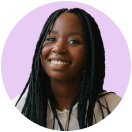
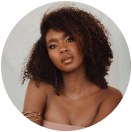
Working on Mentee profile

diff --git a/app/(dashboard)/(routes)/(profile)/mentee-profile/page.tsx b/app/(dashboard)/(routes)/(profile)/mentee-profile/page.tsx
@@ -1,19 +1,108 @@
 "use client";
 
+import OverviewCard from "@/components/cards/mentee-profile-cards/OverviewCard";
 import Button from "@/components/ui/Button";
-import { DashboardMenteeNavImg } from "@/public";
-import React from "react";
+import { DashboardCoverBg, MenteeDashboardProfileImg } from "@/public";
+import { NaijaFlagIcon } from "@/public/SVGs";
+import Image from "next/image";
+import Link from "next/link";
+import { useRouter } from "next/navigation";
+import React, { useState } from "react";
+
+type MenuProfileProps = {
+	id: number;
+	title: string;
+	tab: string;
+};
+const menteeMenus: MenuProfileProps[] = [
+	{
+		id: 1,
+		title: "overview",
+		tab: "overview",
+	},
+	{
+		id: 2,
+		title: "My Mentors",
+		tab: "my-mentors",
+	},
+	{
+		id: 3,
+		title: "commendations",
+		tab: "commendations",
+	},
+];
 
 export default function MenteeProfilePage() {
+	const [activeTab, setActiveTab] = useState("");
+	const router = useRouter();
+
 	return (
-		<div>
-			<Button
-				className="p-3"
-				variant="secondary"
-				type="button"
-				icon={DashboardMenteeNavImg}
-				title="Dashboard"
-			/>
-		</div>
+		<section>
+			<div className="flex">
+				<Image src={DashboardCoverBg} alt="cover" width={1000} height={500} />
+			</div>
+			<div className="flex flex-col px-6 lg:px-8">
+				<div className="flex">
+					<div>
+						<Image
+							src={MenteeDashboardProfileImg}
+							alt="cover"
+							width={130}
+							height={130}
+						/>
+					</div>
+					<div className="flex flex-col">
+						<p className="flex">
+							<span>Henrietta Okankwo</span>
+							<NaijaFlagIcon />
+						</p>
+						<p>
+							Product designer <span>at</span> Federal University of Technology,
+							Owerri
+						</p>
+					</div>
+					<div>
+						<Button
+							className="px-4 py-2"
+							title="Edit Profile"
+							variant="secondary"
+						/>
+					</div>
+				</div>
+
+				<div className="flex mt-10">
+					<div className="flex flex-col w-full">
+						<div className="flex items-center gap-10">
+							{menteeMenus.map((menu) => (
+								<p
+									className=" cursor-pointer"
+									key={menu.id}
+									onClick={() => {
+										router.push(`?=${menu.tab}`);
+										setActiveTab(menu.tab);
+									}}
+								>
+									{menu.title}
+								</p>
+							))}
+						</div>
+						<OverviewCard
+							desc="I'm Henrietta Okonkwo, a rising star in the world of product
+								design. I bring to the table a deep-seated passion for innovation and
+								an unwavering commitment to precision in my work.In my journey as a
+								web developer, I have come to understand the importance of
+								collaboration between design and development. The synergy between our
+								fields often leads to-mdx digital experiences. Your passion
+								for innovation resonates deeply with me, as it mirrors the ethos of
+								the web development community."
+							expertise="UI Design"
+							experience="Product Designer 3 years"
+							workPlace="Federal University of Science Technology, Owerri"
+						/>
+					</div>
+					<div className="flex w-full"></div>
+				</div>
+			</div>
+		</section>
 	);
 }

diff --git a/components/cards/mentee-profile-cards/OverviewCard.tsx b/components/cards/mentee-profile-cards/OverviewCard.tsx
@@ -1,0 +1,93 @@
+import Button from "@/components/ui/Button";
+import { AwardIcon, EditIcon } from "@/public/SVGs";
+import React, { useState } from "react";
+
+type Props = {
+	desc: string;
+	expertise: string;
+	experience: string;
+	workPlace: string;
+};
+export default function OverviewCard({
+	desc,
+	expertise,
+	experience,
+	workPlace,
+}: Props) {
+	const [showMore, setshowMore] = useState(false);
+	return (
+		<div className="mt-6 flex flex-col gap-8">
+			<div>
+				<h2 className="text-Neutral50 font-bold font-Hanken text-[18px]">
+					Bio:
+				</h2>
+				<p className="text-Neutral50 font-Hanken text-[16px]">
+					{desc.length >= 200 && showMore ? desc.slice(0, 200) + "...." : desc}
+				</p>
+				{desc.length >= 200 && (
+					<>
+						{showMore ? (
+							<button
+								className="text-Accent1 font-Hanken text-[16px]"
+								onClick={() => setshowMore(false)}
+							>
+								Show More
+							</button>
+						) : (
+							<button
+								className="text-Accent1 font-Hanken text-[16px]"
+								onClick={() => setshowMore(true)}
+							>
+								Show Less
+							</button>
+						)}
+					</>
+				)}
+			</div>
+			<div>
+				<p className="text-Neutra50 font-bold text-[18px] font-Hanken">
+					Expertise
+				</p>
+				<Button
+					className="px-4 py-2 border-gray-400"
+					title={expertise}
+					variant="secondary"
+				/>
+			</div>
+			<div className="flex flex-col gap-3">
+				<div className=" w-full flex justify-between">
+					<p className="text-Neutra50 font-bold text-[18px] font-Hanken">
+						Experience
+					</p>
+					<EditIcon />
+				</div>
+				<div className="flex justify-center items-center gap-4 lg:gap-8">
+					<div>
+						<AwardIcon />
+					</div>
+					<div className="flex flex-col w-full">
+						<div className="flex justify-between">
+							<p className="text-black font-medium text-[16px] font-Inter">
+								{experience}
+							</p>
+							<Button
+								className="px-3 py-1 border-gray-400"
+								title="Present"
+								variant="secondary"
+							/>
+						</div>
+						<p className="text-black font-normal text-[16px] font-Hanken">
+							{workPlace}
+						</p>
+					</div>
+				</div>
+				<div className=" w-full flex justify-between">
+					<p className="text-Neutra50 font-bold text-[18px] font-Hanken">
+						Education
+					</p>
+					<EditIcon />
+				</div>
+			</div>
+		</div>
+	);
+}

diff --git a/tailwind.config.ts b/tailwind.config.ts
@@ -12,8 +12,8 @@ const config: Config = {
 				tall: { raw: "(max-height: 1000px)" },
 			},
 			colors: {
-				Neutral60: "#2A2A2A",
 				NeutalBase: "#020202",
+				Neutral60: "#2A2A2A",
 				Neutra50: "#2c2c2c",
 				Neutra40: "#565656",
 				Neutra30: "#808080",

diff --git a/components/cards/mentee-profile-cards/Commendations.tsx b/components/cards/mentee-profile-cards/Commendations.tsx
@@ -1,0 +1,5 @@
+import React from "react";
+
+export default function Commendations() {
+	return <div>Commendations</div>;
+}

diff --git a/components/cards/mentee-profile-cards/MyMentorsCard.tsx b/components/cards/mentee-profile-cards/MyMentorsCard.tsx
@@ -1,0 +1,5 @@
+import React from "react";
+
+export default function MyMentorsCard() {
+	return <div>MyMentorsCard</div>;
+}
